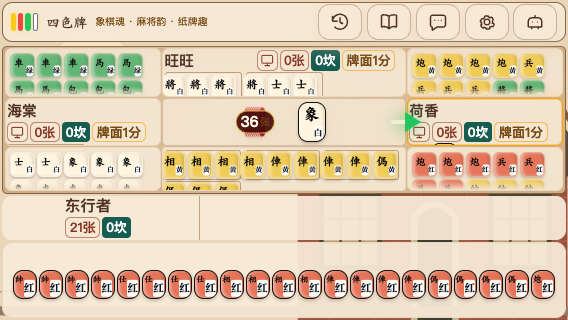
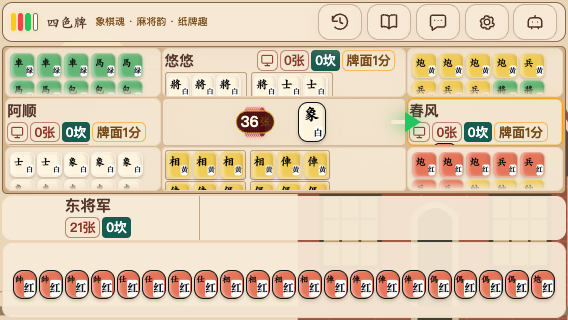
fix(ui): preserve leading meld alignment when toggling color assistance

diff --git a/tests/e2e/mahjong-appearance.spec.ts b/tests/e2e/mahjong-appearance.spec.ts
@@ -571,7 +571,45 @@ for (const layout of ['classic', 'compact', 'mahjong', 'adaptive'] as const) {
         return cards.flatMap((card, i) => plain[i]!.some((value, axis) => Math.abs(value - assisted[i]![axis]!) > .1)
           ? [{ id: (card as HTMLElement).dataset.faceId, className: card.className, assisted: assisted[i], plain: plain[i] }] : []);
       })).toEqual([]);
-      if (width === 568 || width === 375 || width === 1440) await page.screenshot({ path: info.outputPath(`${layout}-${mode}-${width}x${height}.png`) });
+      if (width === 568 || width === 375 || width === 1440) {
+        // Paint the restored assisted face before capturing visual evidence.
+        await page.evaluate(() => new Promise<void>(resolve => requestAnimationFrame(() => requestAnimationFrame(() => resolve()))));
+        await page.screenshot({ path: info.outputPath(`${layout}-${mode}-${width}x${height}.png`) });
+      }
+    }
+  });
+}
+
+for (const layout of ['classic', 'compact']) for (const mode of ['long', 'large']) {
+  test(`meld spacing ${layout} ${mode} keeps first cards aligned across assistance toggles`, async ({ page }) => {
+    await page.setViewportSize({ width: 844, height: 390 });
+    await start(page, layout, mode);
+    await crowd(page);
+    for (const assisted of [false, true, false]) {
+      if (assisted || await page.locator('html').evaluate(el => el.classList.contains('show-card-color-assist'))) {
+        await page.getByTestId('game-settings').click();
+        await revealSetting(page, 'card-color-assist');
+        await page.getByTestId('card-color-assist').click();
+        await page.getByRole('button', { name: '关闭设置', exact: true }).click();
+      }
+      await expect(async () => {
+        const strips = await page.locator('.mini-card-strip').evaluateAll(elements => elements.map(strip => {
+          const cards = [...strip.querySelectorAll<HTMLElement>('.mini-card')];
+          const first = cards[0]!;
+          return {
+            firstMargin: parseFloat(getComputedStyle(first).marginLeft),
+            firstOffset: first.getBoundingClientRect().left - strip.getBoundingClientRect().left,
+            followingMargins: cards.slice(1).map(card => parseFloat(getComputedStyle(card).marginLeft)),
+            stacked: strip.classList.contains('stacked') || strip.classList.contains('mode-long'),
+          };
+        }));
+        expect(strips.length).toBeGreaterThan(0);
+        for (const strip of strips) {
+          expect(strip.firstMargin).toBe(0);
+          expect(strip.firstOffset).toBeGreaterThanOrEqual(-.1);
+          expect(strip.followingMargins.every(margin => assisted || !strip.stacked ? margin === 0 : margin < 0), JSON.stringify({ assisted, strip })).toBe(true);
+        }
+      }).toPass();
     }
   });
 }

diff --git a/client/src/components/GameBoard.vue.js b/client/src/components/GameBoard.vue.js
@@ -2311,17 +2311,17 @@ let __VLS_directives;
 /** @type {__VLS_StyleScopedClasses['mini-card-strip']} */ ;
 /** @type {__VLS_StyleScopedClasses['mini-card-strip']} */ ;
 /** @type {__VLS_StyleScopedClasses['mode-long']} */ ;
-/** @type {__VLS_StyleScopedClasses['board']} */ ;
-/** @type {__VLS_StyleScopedClasses['mini-card-strip']} */ ;
-/** @type {__VLS_StyleScopedClasses['card']} */ ;
-/** @type {__VLS_StyleScopedClasses['mini-card']} */ ;
-/** @type {__VLS_StyleScopedClasses['card']} */ ;
-/** @type {__VLS_StyleScopedClasses['mini-card']} */ ;
 /** @type {__VLS_StyleScopedClasses['mini-card']} */ ;
 /** @type {__VLS_StyleScopedClasses['mini-card-strip']} */ ;
 /** @type {__VLS_StyleScopedClasses['stacked']} */ ;
 /** @type {__VLS_StyleScopedClasses['mode-long']} */ ;
 /** @type {__VLS_StyleScopedClasses['mini-card']} */ ;
+/** @type {__VLS_StyleScopedClasses['mini-card']} */ ;
+/** @type {__VLS_StyleScopedClasses['board']} */ ;
+/** @type {__VLS_StyleScopedClasses['mini-card-strip']} */ ;
+/** @type {__VLS_StyleScopedClasses['card']} */ ;
+/** @type {__VLS_StyleScopedClasses['mini-card']} */ ;
+/** @type {__VLS_StyleScopedClasses['card']} */ ;
 /** @type {__VLS_StyleScopedClasses['mini-card']} */ ;
 /** @type {__VLS_StyleScopedClasses['mini-card']} */ ;
 /** @type {__VLS_StyleScopedClasses['mini-card']} */ ;

diff --git a/client/src/components/GameBoard.vue b/client/src/components/GameBoard.vue
@@ -3889,17 +3889,17 @@ watch(() => [props.tableLayout, props.tableCardMode, props.ownCardMode, flights.
   padding-right: 0.22rem;
 }
 
-.mini-card-strip.mode-long .mini-card + /* Assisted names and corner labels must remain visible between adjacent cards. */
-:global(html.show-card-color-assist .board .mini-card-strip .card.mini-card + .card.mini-card) {
-  margin-left: 0;
-}
-
-.mini-card {
+.mini-card-strip.mode-long .mini-card + .mini-card {
   margin-left: -0.32rem;
 }
 
 .mini-card-strip.stacked:not(.mode-long) .mini-card + .mini-card {
   margin-left: -0.28rem;
+}
+
+/* Assisted names and corner labels must remain visible between adjacent cards. */
+:global(html.show-card-color-assist .board .mini-card-strip .card.mini-card + .card.mini-card) {
+  margin-left: 0;
 }
 
 .mini-card {

diff --git a/docs/validation/color-assistance/README.md b/docs/validation/color-assistance/README.md
@@ -14,9 +14,9 @@
 
 ```bash
 npm run build
-PLAYWRIGHT_CHANNEL=chrome npx playwright test --project=chromium tests/e2e/mahjong-appearance.spec.ts -g 'global assistance|color assistance keeps|assisted .*flights'
+PLAYWRIGHT_CHANNEL=chrome npx playwright test --project=chromium tests/e2e/mahjong-appearance.spec.ts -g 'global assistance|color assistance keeps|assisted .*flights|meld spacing'
 ```
 
-12/12 通过。覆盖四种布局、两种牌型及 640×350、568×320、667×375、375×667、844×390、1024×768、1440×900；测量牌名与颜色字实际字形的边界、相邻牌遮挡、操作栏遮挡、同帧辅助开关尺寸和旋转飞牌落点。另覆盖 28 组明示牌在各席位的滚动可达性。
+16 项通过（颜色辅助 / 密集牌组 / 飞牌 12 项，另加真实开关边距回归 4 项）。覆盖四种布局、两种牌型及 640×350、568×320、667×375、375×667、844×390、1024×768、1440×900；测量牌名与颜色字实际字形的边界、相邻牌遮挡、操作栏遮挡、同帧辅助开关尺寸和旋转飞牌落点。另覆盖 28 组明示牌在各席位的滚动可达性，以及经典 / 紧凑布局中首张牌对齐、开启辅助取消叠压、关闭后恢复原有叠放。
 
 这些截图仅代表所列场景；完整 Chromium / WebKit 回归结果以 PR 当前提交的 CI 为准。
